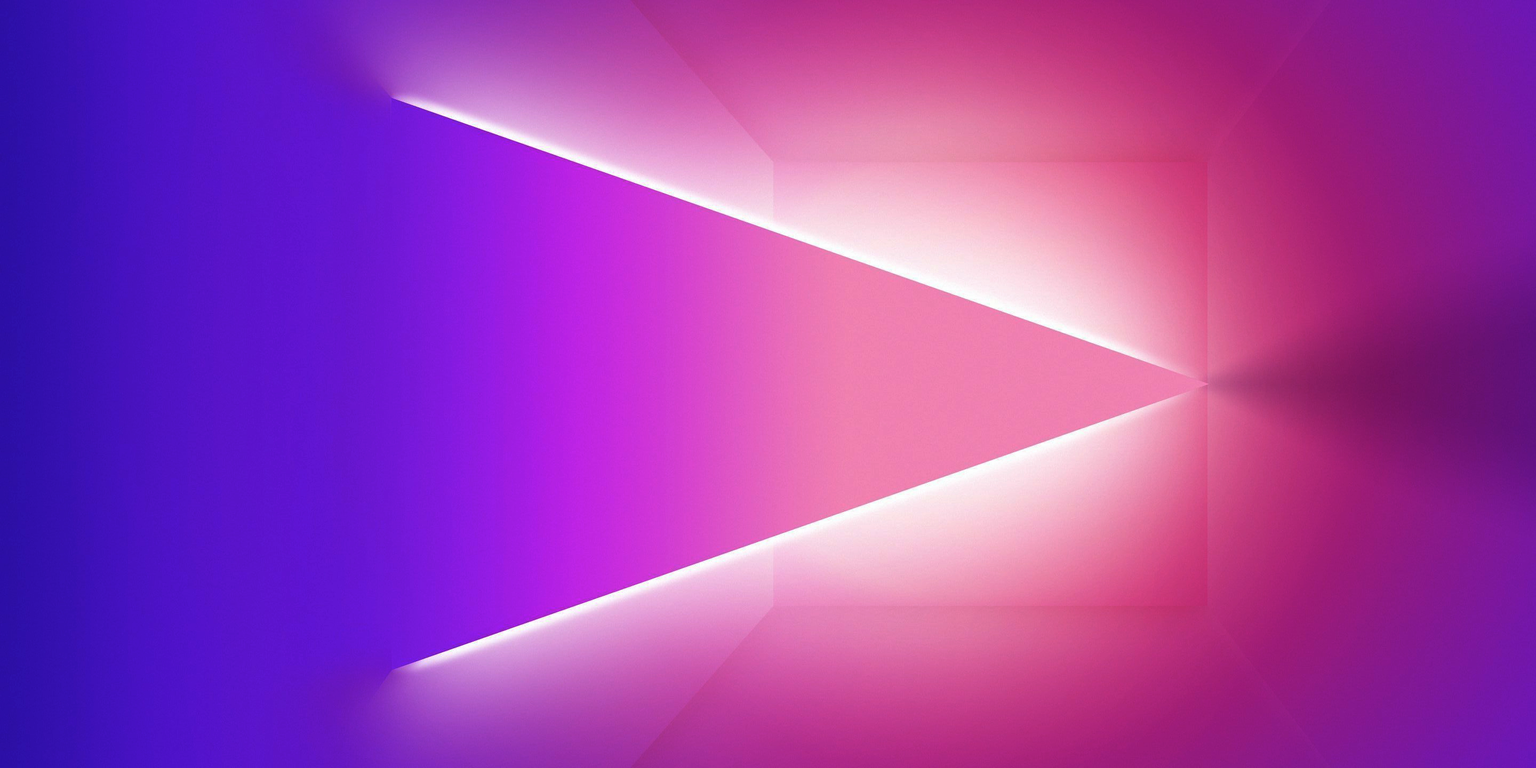
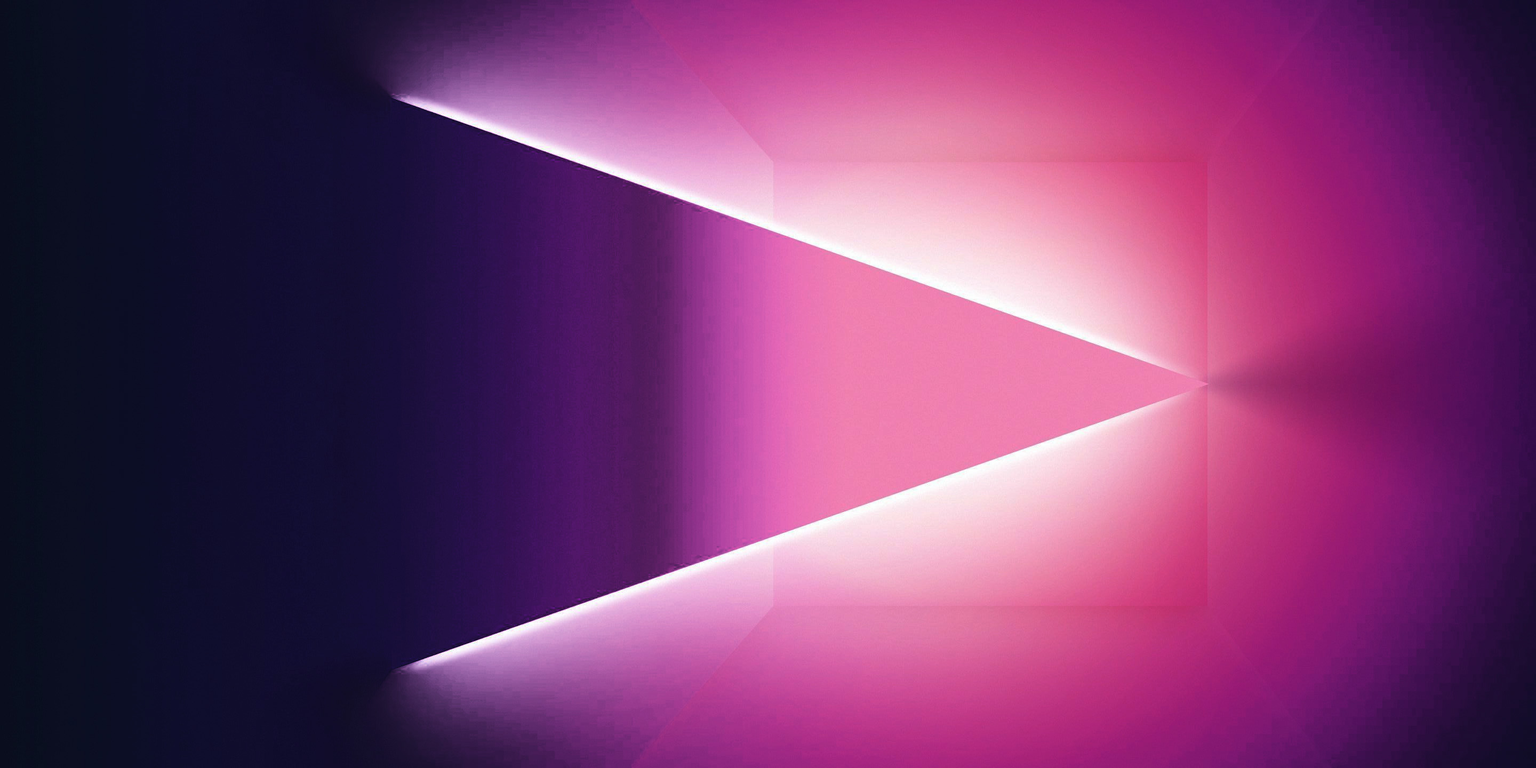
Finally v

diff --git a/style.css b/style.css
@@ -35,7 +35,7 @@ body{
 
 .navbar a{
     font-size: 18px;
-    color:#A4B3B6;
+    color:white;
     text-decoration: none;
     font-weight: 500;
     margin-left: 35px;
@@ -44,28 +44,28 @@ body{
 
 .navbar a:hover,
 .navbar a.active{/*подкрашивает при выделении, сохраняет выделение на выбранной странице*/
-    color: #2A1B3D;
+    color: #D83F87;
 }
 
 .home{
     position: relative;
     height: 100vh;
     width: 100%;
-    background-color: #44318D;
-    background-image: url('src/img/neonBackground.jpg');
+    background-color: #2A1B3D;
+    background-image: url('src/img/backPng.png');
+    background-position:center;
     background-size: cover;
     background-position:center;
     display: flex;
     align-items: center;
-    padding: 0 10%;
+    padding: 0 12%;
 }
 
-.home-content{
-    max-width: 600px;
-}
+
+
 .home-content li a{
     font-size: 16px;
-    color:#A4B3B6;
+    color:white;
     text-decoration: none;
     font-weight: 500;
     transition: .3s;
@@ -93,24 +93,6 @@ body{
     width: 345px;
     height: 50px;
 }
-
-.gif{
-    position: relative;
-    left: 300px;
-}
-
-.secondPlug{
-    position: absolute;
-    width: 26%;
-    left: 90px;
-}
-.plug{
-    position: relative;
-    width: 80%;
-    left: 175%;
-}
-
-
 
 .btn-box a{
     position: relative;
@@ -142,7 +124,7 @@ body{
     color: #D83F87;
 }
 .btn-box a:nth-child(2):hover{/*изменить цвет текста в анимации*/
-    color: #44318D;
+    color: #2A1B3D;
 }
 .btn-box a:nth-child(2)::before{
     background: #D83F87;
@@ -154,7 +136,7 @@ body{
     left: 0;
     width: 0;
     height: 100%;
-    background: #44318D;
+    background: #2A1B3D;
     z-index: -1;/*определяет положение по з координате. Т.е. выставляет элемент внутри элемента. Слои, в общем*/
     transition: .5s;
 }
@@ -249,14 +231,6 @@ body{
     width: 100%;
 }
 
-
-
-
-
-
-
-
-
 .wrap {
     height: 100%;
     display: flex;
@@ -274,7 +248,7 @@ body{
     text-transform: uppercase;
     letter-spacing: 1.3px;
     font-weight: 700;
-    color: #A4B3B6;
+    color: white;
     background: #D83F87;
     border: none;
     border-radius: 1000px;
@@ -285,7 +259,7 @@ body{
     position: relative;
     bottom: 0;
     right: 0;
-    left: 178%;
+    left: 0;
     top: 0;
     padding: 10px;
     }
@@ -295,8 +269,8 @@ body{
     border-radius: 1000px;
     min-width: calc(300px + 12px);
     min-height: calc(60px + 12px);
-    border: 6px solid #44318D;
-    box-shadow: 0 0 60px #2A1B3D;
+    border: 6px solid #D83F87;
+    box-shadow: 0 0 60px #D83F87;
     position: absolute;
     top: 50%;
     left: 50%;
@@ -306,7 +280,7 @@ body{
   }
   
   .button:hover, .button:focus {
-    color: #A4B3B6;
+    color: white;
     transform: translateY(-6px);
   }
   
@@ -318,7 +292,7 @@ body{
     content: '';
     width: 30px; height: 30px;
     border-radius: 100%;
-    border: 6px solid #44318D;
+    border: 6px solid #D83F87;
     position: absolute;
     z-index: 1;
     top: 50%;
@@ -369,3 +343,55 @@ body{
       opacity: 0;
     }
   }
+
+ /* Mobile Devices */
+@media (max-width: 480px) {
+    .body{
+    }
+    .header{
+        width: 60%;
+    }
+    .wrap{
+        display: none;
+    }
+    .home{
+        position: absolute;
+        width: 100%;
+        height: 100%;
+    }
+    .home-content h1{
+        font-size: 50%;
+    }
+    .home-content h3{
+        font-size: 50%;
+    }
+    .home-content p{
+        font-size: 50%;
+    }
+    .home-content .btn-box{
+        width: 100%;
+        
+    }
+}
+        
+/* Low resolution Tablets and iPads */
+@media (min-width: 481px) and (max-width: 767px) {
+    .wrap{
+        display: none;
+    }
+}
+        
+/* Tablets iPads (Portrait) */
+@media (min-width: 768px) and (max-width: 1024px){
+    
+}
+    
+/* Laptops and Desktops */
+@media (min-width: 1025px) and (max-width: 1280px){
+    
+}
+    
+/* Big boi Monitors */
+@media (min-width: 1281px) {
+    
+}

diff --git a/contacts.html b/contacts.html
@@ -8,6 +8,7 @@
     <link rel = "stylesheet" href="style.css">
     <script src="scripts.js"></script>
     <link href='https://unpkg.com/boxicons@2.1.4/css/boxicons.min.css' rel='stylesheet'>
+    <link rel="icon" href="favicon.ico" type="image/x-icon">
 </head>
 
 <body>
@@ -33,7 +34,7 @@
             <a href="https://vk.com/id340608389"><i class='bx bxl-vk'></i></a>
             <a href="https://t.me/telegram/PiratMussone"><i class='bx bxl-telegram'></i></a>
             <a href="https://github.com/MuSoNeS"><i class='bx bxl-github'></i></a>
-            <a href="mailto:piratmusones@gmail.com&body=привет?subject=предложение"><i class='bx bxl-gmail'></i></a>
+            <a href="mailto:piratmusones@gmail.com"><i class='bx bxl-gmail'></i></a>
             <a href="tel:+79048095789"><i class='bx bxs-phone-call'></i></a>
         </div>
         <div id="axis" class="one">

diff --git a/portfolio.html b/portfolio.html
@@ -7,6 +7,7 @@
     <title>Personal Resume-Website HTML CSS Only Codehal</title>
     <link rel = "stylesheet" href="style.css">
     <link href='https://unpkg.com/boxicons@2.1.4/css/boxicons.min.css' rel='stylesheet'>
+    <link rel="icon" href="favicon.ico" type="image/x-icon">
 </head>
 
 <body>
@@ -28,9 +29,8 @@
     <section class = "home">
        
         <div class="home-content">
-            <h1>Сontent in development  :D</h1>
-            <img class = "secondPlug" src="src/img/ContentInDev.png" alt="I`m working">
-            <img class = "plug" src="src/img/hahha.png" alt="Hahah">              
+            <h1>Сontent in development...</h1>
+                      
         </div>
 
         <div class="home-sci">

diff --git a/aboutMe.html b/aboutMe.html
@@ -7,6 +7,7 @@
     <title>Personal Resume-Website HTML CSS Only Codehal</title>
     <link rel = "stylesheet" href="style.css">
     <link href='https://unpkg.com/boxicons@2.1.4/css/boxicons.min.css' rel='stylesheet'>
+    <link rel="icon" href="favicon.ico" type="image/x-icon">
 </head>
 
 <body>
@@ -43,8 +44,6 @@
             </ul></p>
                       
         </div>
-
-        <img class="gif" src="src/img/circle.gif" width="70%"  alt="circle">
 
         <div class="home-sci">
             <a href="https://vk.com/id340608389"><i class='bx bxl-vk'></i></a>

diff --git a/index.html b/index.html
@@ -7,6 +7,7 @@
     <title>Personal Resume-Website HTML CSS Only Codehal</title>
     <link rel = "stylesheet" href="style.css">
     <link href='https://unpkg.com/boxicons@2.1.4/css/boxicons.min.css' rel='stylesheet'>
+    <link rel="icon" href="favicon.ico" type="image/x-icon">
 </head>
 
 <body>
